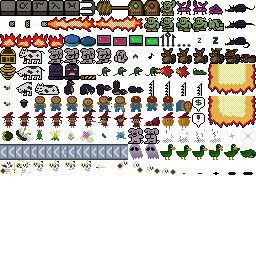
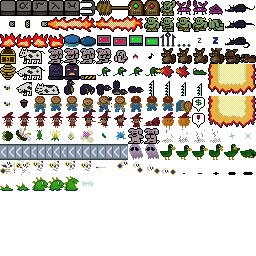
seamonster

Changed region(s): [[0.0, 0.6875, 0.375, 0.75]]

diff --git a/src/app/sprite/types/fmn_sprite_seamonster.c b/src/app/sprite/types/fmn_sprite_seamonster.c
@@ -1,0 +1,269 @@
+#include "app/sprite/fmn_sprite.h"
+#include "app/hero/fmn_hero.h"
+
+#define SEAMONSTER_STAGE_LURK 1
+#define SEAMONSTER_STAGE_SWIM 2
+#define SEAMONSTER_STAGE_SURFACE 3
+#define SEAMONSTER_STAGE_SPIT 4
+
+#define SEAMONSTER_LURK_TIME 1.0f
+#define SEAMONSTER_SWIM_SPEED 2.0f
+#define SEAMONSTER_SPIT_TIME 0.5f
+#define SEAMONSTER_SURFACE_TIME 1.0f
+
+#define tileid0 sprite->bv[0]
+#define sleeping sprite->bv[1]
+#define stage sprite->bv[2]
+#define clock sprite->fv[0]
+#define swimdx sprite->fv[1]
+#define swimdy sprite->fv[2]
+
+/* Choose swim destination.
+ * Sets (clock,swimdx,swimdy).
+ */
+ 
+struct maprect {
+  uint8_t x,y,w,h;
+};
+
+static uint8_t maprect_available(uint8_t x,uint8_t y,uint8_t w,uint8_t h) {
+  const uint8_t *srcrow=fmn_global.map+y*FMN_COLC+x;
+  for (;h-->0;srcrow+=FMN_COLC) {
+    const uint8_t *srcp=srcrow;
+    uint8_t xi=w;
+    for (;xi-->0;srcp++) {
+      switch (fmn_global.cellphysics[*srcp]) {
+        // Arguably HOLE too. (we're not using that yet, i'm not sure how it will play out)
+        case FMN_CELLPHYSICS_WATER:
+          break;
+        default: return 0;
+      }
+    }
+  }
+  return 1;
+}
+
+static void maprect_grow(struct maprect *mr,int8_t dx,int8_t dy) {
+  if (dx<0) {
+    while ((mr->x>0)&&maprect_available(mr->x-1,mr->y,1,mr->h)) { mr->x--; mr->w++; }
+  } else if (dy<0) {
+    while ((mr->y>0)&&maprect_available(mr->x,mr->y-1,mr->w,1)) { mr->y--; mr->h++; }
+  } else if (dx>0) {
+    while ((mr->x+mr->w<FMN_COLC)&&maprect_available(mr->x+mr->w,mr->y,1,mr->h)) mr->w++;
+  } else if (dy>0) {
+    while ((mr->y+mr->h<FMN_ROWC)&&maprect_available(mr->x,mr->y+mr->h,mr->w,1)) mr->h++;
+  }
+}
+
+static void maprect_fill_bitmap(uint8_t *bitmap,const struct maprect *mr) {
+  uint8_t *dstrow=bitmap+mr->y*FMN_COLC+mr->x;
+  uint8_t yi=mr->h;
+  for (;yi-->0;dstrow+=FMN_COLC) {
+    memset(dstrow,1,mr->w);
+  }
+}
+ 
+static void seamonster_choose_swim_destination(struct fmn_sprite *sprite) {
+
+  // Prepare four rectangles in discrete grid space, all initially pointing to my cell.
+  int8_t col=sprite->x,row=sprite->y;
+  if ((col<0)||(row<0)||(col>=FMN_COLC)||(row>=FMN_ROWC)) {
+    clock=swimdx=swimdy=0.0f;
+    return;
+  }
+  struct maprect availw={col,row,1,1};
+  struct maprect availe={col,row,1,1};
+  struct maprect availn={col,row,1,1};
+  struct maprect avails={col,row,1,1};
+  
+  // Grow each rectangle in its major direction, then in each of the perpendicular directions.
+  // There can easily be reachable cells that we miss, but we should get a reasonable set of definitely-reachable ones.
+  maprect_grow(&availw,-1, 0); maprect_grow(&availw, 0,-1); maprect_grow(&availw, 0, 1);
+  maprect_grow(&availe, 1, 0); maprect_grow(&availe, 0,-1); maprect_grow(&availe, 0, 1);
+  maprect_grow(&availn, 0,-1); maprect_grow(&availn,-1, 0); maprect_grow(&availn, 1, 0);
+  maprect_grow(&avails, 0, 1); maprect_grow(&avails,-1, 0); maprect_grow(&avails, 1, 0);
+  
+  // The rectangles will likely have a lot of overlap around the current position.
+  // I don't want that impacting our odds. (if anything, i'd want *further* cells to be more likely).
+  // So now, flatten it into a bitmap of cells.
+  uint8_t bitmap[FMN_COLC*FMN_ROWC]={0};
+  maprect_fill_bitmap(bitmap,&availw);
+  maprect_fill_bitmap(bitmap,&availe);
+  maprect_fill_bitmap(bitmap,&availn);
+  maprect_fill_bitmap(bitmap,&avails);
+  bitmap[row*FMN_COLC+col]=0; // eliminate the one we're at, that wouldn't be an interesting voyage
+  
+  // Count the available cells, pick randomly in that range, and iterate them again to get the coordinates.
+  uint8_t candidatec=0;
+  { const uint8_t *v=bitmap;
+    uint8_t i=FMN_COLC*FMN_ROWC;
+    for (;i-->0;v++) if (*v) candidatec++;
+  }
+  if (!candidatec) {
+    clock=swimdx=swimdy=0.0f;
+    return;
+  }
+  uint8_t choice=rand()%candidatec;
+  uint8_t x=0,y=0,ok=0;
+  { const uint8_t *v=bitmap;
+    for (;y<FMN_ROWC;y++) {
+      for (x=0;x<FMN_COLC;x++,v++) {
+        if (!*v) continue;
+        if (!choice--) { ok=1; break; }
+      }
+      if (ok) break;
+    }
+  }
+  if (!ok) {
+    clock=swimdx=swimdy=0.0f;
+    return;
+  }
+  
+  float dstx=x+0.5f;
+  float dsty=y+0.5f;
+  swimdx=dstx-sprite->x;
+  swimdy=dsty-sprite->y;
+  float distance=sqrtf(swimdx*swimdx+swimdy*swimdy);
+  swimdx=(swimdx*SEAMONSTER_SWIM_SPEED)/distance;
+  swimdy=(swimdy*SEAMONSTER_SWIM_SPEED)/distance;
+  clock=distance/SEAMONSTER_SWIM_SPEED;
+}
+
+/* Stage changes.
+ */
+ 
+static void seamonster_begin_LURK(struct fmn_sprite *sprite) {
+  sprite->style=FMN_SPRITE_STYLE_TWOFRAME;
+  sprite->tileid=tileid0;
+  stage=SEAMONSTER_STAGE_LURK;
+  clock=SEAMONSTER_LURK_TIME;
+}
+
+static void seamonster_begin_SWIM(struct fmn_sprite *sprite) {
+  sprite->style=FMN_SPRITE_STYLE_TWOFRAME;
+  sprite->tileid=tileid0;
+  stage=SEAMONSTER_STAGE_SWIM;
+  seamonster_choose_swim_destination(sprite);
+  if (swimdx<0.0f) sprite->xform=FMN_XFORM_XREV;
+  else sprite->xform=0;
+}
+
+static void seamonster_begin_SURFACE(struct fmn_sprite *sprite) {
+  sprite->style=FMN_SPRITE_STYLE_TWOFRAME;
+  sprite->tileid=tileid0+2;
+  stage=SEAMONSTER_STAGE_SURFACE;
+  clock=SEAMONSTER_SURFACE_TIME;
+  float herox,heroy;
+  fmn_hero_get_position(&herox,&heroy);
+  if (herox<sprite->x) sprite->xform=FMN_XFORM_XREV;
+  else sprite->xform=0;
+}
+
+static void seamonster_begin_SPIT(struct fmn_sprite *sprite) {
+
+  // Proceed with spitting if hero is in the 90-degree cone. Don't change direction.
+  float herox,heroy;
+  fmn_hero_get_position(&herox,&heroy);
+  if (sprite->xform&FMN_XFORM_XREV) {
+    if (herox>=sprite->x) { seamonster_begin_LURK(sprite); return; }
+  } else {
+    if (herox<=sprite->x) { seamonster_begin_LURK(sprite); return; }
+  }
+  float dx=herox-sprite->x; if (dx<0.0f) dx=-dx;
+  float dy=heroy-sprite->y; if (dy<0.0f) dy=-dy;
+  // If we want a wider or narrower cone, insert a multiplier here:
+  if (dy>=dx) { seamonster_begin_LURK(sprite); return; }
+  
+  // OK! Make a missile, do the spit animation, and let the missile do its thing.
+  sprite->style=FMN_SPRITE_STYLE_TILE;
+  sprite->tileid=tileid0+4;
+  stage=SEAMONSTER_STAGE_SPIT;
+  clock=SEAMONSTER_SPIT_TIME;
+  float x=sprite->x;
+  if (sprite->xform&FMN_XFORM_XREV) x-=0.5f;
+  else x+=0.5f;
+  const uint8_t cmdv[]={
+    0x42,FMN_SPRCTL_missile>>8,FMN_SPRCTL_missile,
+    0x20,sprite->imageid,
+    0x21,tileid0+5,
+    0x23,FMN_SPRITE_STYLE_TILE,
+  };
+  const uint8_t argv[]={};
+  struct fmn_sprite *star=fmn_sprite_spawn(x,sprite->y,0,cmdv,sizeof(cmdv),argv,sizeof(argv));
+}
+
+/* Init.
+ */
+ 
+static void _seamonster_init(struct fmn_sprite *sprite) {
+  tileid0=sprite->tileid;
+  seamonster_begin_LURK(sprite);
+}
+
+/* Update, per stage.
+ */
+ 
+static void seamonster_update_LURK(struct fmn_sprite *sprite,float elapsed) {
+}
+ 
+static void seamonster_update_SWIM(struct fmn_sprite *sprite,float elapsed) {
+  sprite->x+=swimdx*elapsed;
+  sprite->y+=swimdy*elapsed;
+}
+ 
+static void seamonster_update_SURFACE(struct fmn_sprite *sprite,float elapsed) {
+}
+ 
+static void seamonster_update_SPIT(struct fmn_sprite *sprite,float elapsed) {
+}
+
+/* Update.
+ */
+ 
+static void _seamonster_update(struct fmn_sprite *sprite,float elapsed) {
+  if (sleeping) return;
+  if ((clock-=elapsed)<=0.0f) switch (stage) {
+    case SEAMONSTER_STAGE_LURK: seamonster_begin_SWIM(sprite); break;
+    case SEAMONSTER_STAGE_SWIM: seamonster_begin_SURFACE(sprite); break;
+    case SEAMONSTER_STAGE_SURFACE: seamonster_begin_SPIT(sprite); break;
+    case SEAMONSTER_STAGE_SPIT: seamonster_begin_LURK(sprite); break;
+  } else switch (stage) {
+    case SEAMONSTER_STAGE_LURK: seamonster_update_LURK(sprite,elapsed); break;
+    case SEAMONSTER_STAGE_SWIM: seamonster_update_SWIM(sprite,elapsed); break;
+    case SEAMONSTER_STAGE_SURFACE: seamonster_update_SURFACE(sprite,elapsed); break;
+    case SEAMONSTER_STAGE_SPIT: seamonster_update_SPIT(sprite,elapsed); break;
+  }
+}
+
+/* Interact.
+ */
+ 
+static int16_t _seamonster_interact(struct fmn_sprite *sprite,uint8_t itemid,uint8_t qualifier) {
+  switch (itemid) {
+    case FMN_ITEM_WAND: switch (qualifier) {
+        case FMN_SPELLID_LULLABYE: if (!sleeping) {
+            sleeping=1;
+            sprite->style=FMN_SPRITE_STYLE_HIDDEN;
+            fmn_sprite_generate_zzz(sprite);
+          } break;
+        case FMN_SPELLID_REVEILLE: if (sleeping) {
+            sleeping=0;
+            seamonster_begin_LURK(sprite);
+          } break;
+      } break;
+    case FMN_ITEM_BELL: if (sleeping) {
+        sleeping=0;
+        seamonster_begin_LURK(sprite);
+      } break;
+  }
+  return 0;
+}
+
+/* Type definition.
+ */
+ 
+const struct fmn_sprite_controller fmn_sprite_controller_seamonster={
+  .init=_seamonster_init,
+  .update=_seamonster_update,
+  .interact=_seamonster_interact,
+};

diff --git a/src/app/sprite/fmn_sprite.h b/src/app/sprite/fmn_sprite.h
@@ -136,6 +136,7 @@ void fmn_sprite_kill(struct fmn_sprite *sprite);
 #define FMN_SPRCTL_skyleton      33
 #define FMN_SPRCTL_ghost         34
 #define FMN_SPRCTL_duck          35
+#define FMN_SPRCTL_seamonster    36
 
 #define FMN_FOR_EACH_SPRCTL \
   _(dummy) \
@@ -173,7 +174,8 @@ void fmn_sprite_kill(struct fmn_sprite *sprite);
   _(conveyor) \
   _(skyleton) \
   _(ghost) \
-  _(duck)
+  _(duck) \
+  _(seamonster)
   
 struct fmn_sprite_controller {
   void (*init)(struct fmn_sprite *sprite);

diff --git a/README.md b/README.md
@@ -18,15 +18,21 @@ And tentatively aiming for full release 29 September 2023, the first full moon o
 
 ### March
 
-- [ ] More sprites
+- [x] More sprites
 - - [x] skyleton: Falls from the sky, charges with sword, breaks when he hits a wall.
 - - [x] ghost: Spiral in to the hero, if you don't run away you get cursed. Reduce speed or something, for a short time.
 - - [x] duck: Walk around, quack, throw ninja stars.
-- - [ ] seamonster
+- - [x] seamonster
 - [ ] Initial sketch (eg with chalkguard)
 - [ ] Indoor plants: Never auto-bloom, require the Blooming Song?
 - [ ] skyleton: sound effects
 - [ ] chalkguard: fireworks
+- [ ] Ricochet missiles with the umbrella is fun. Do more with this.
+- - [ ] Influence ricochet direction according to collision position on the tangent axis.
+- - [ ] Gag where monsters are trying to destroy something and you're trying to protect it.
+- - [ ] Anything that ejects a missile should get stunned when it gets sent back.
+- - - [ ] Or catch it! Raccoon should do this. "Oh it just wanted to play catch"
+- - [ ] Use ricochet to hit a switch or something.
 
 ### April
 
